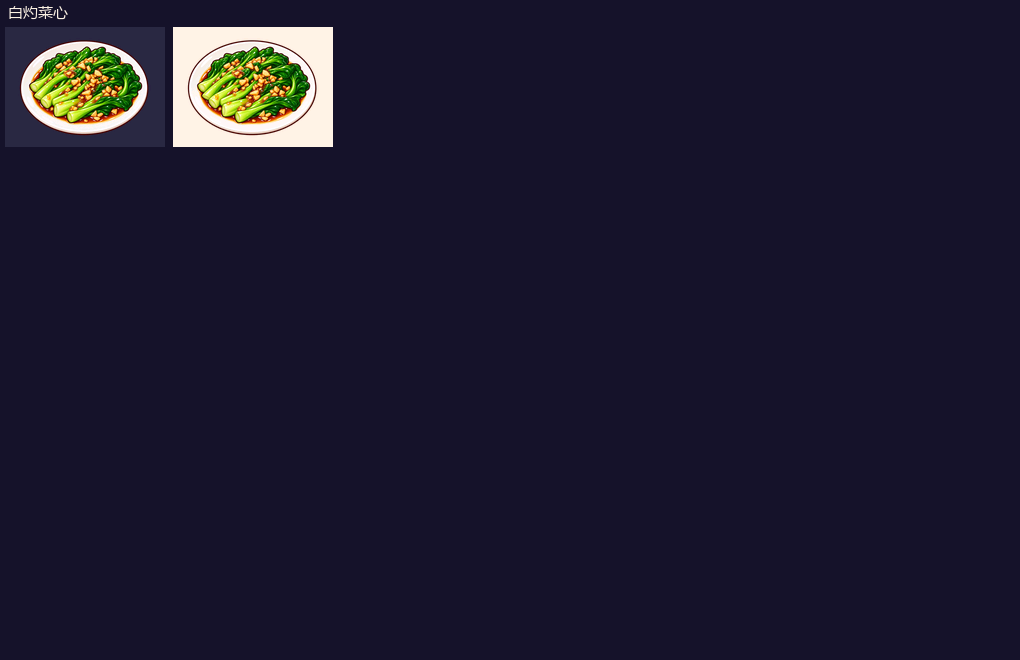
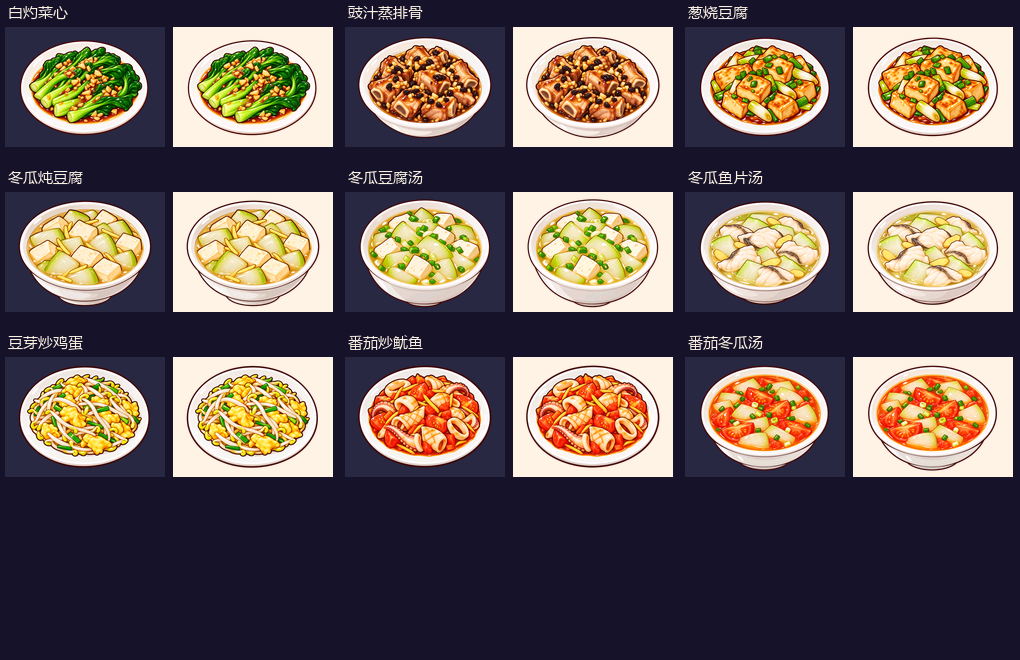
art: checkpoint additional complete dish illustrations

diff --git a/game-art/kitchen/dish-hero/batches/2026-10-29/verify_runtime.py b/game-art/kitchen/dish-hero/batches/2026-10-29/verify_runtime.py
@@ -1,0 +1,118 @@
+"""Verify an art candidate against the unchanged production C resource readers.
+
+No firmware build, serial access or device write. Requires CC and CJSON_DIR.
+The existing 17-hero fixture stays unchanged; this candidate expects every recipe
+to resolve a hero instead of expecting the old missing-image placeholder.
+"""
+import argparse
+import ctypes as ct
+import hashlib
+import importlib.util
+import json
+import os
+from pathlib import Path
+import subprocess
+import tempfile
+import unittest
+
+
+def load(name, path):
+    spec = importlib.util.spec_from_file_location(name, path)
+    module = importlib.util.module_from_spec(spec)
+    spec.loader.exec_module(module)
+    return module
+
+
+def sha(path):
+    return hashlib.sha256(path.read_bytes()).hexdigest()
+
+
+def main():
+    parser = argparse.ArgumentParser(description=__doc__)
+    parser.add_argument("--firmware-root", required=True, type=Path)
+    parser.add_argument("--assets", required=True, type=Path)
+    parser.add_argument("--out", required=True, type=Path)
+    args = parser.parse_args()
+    firmware, assets = args.firmware_root.resolve(), args.assets.resolve()
+    args.out.mkdir(parents=True, exist_ok=True)
+    packer = load("art_candidate_bundle", firmware / "tools/pack_kitchen_assets.py")
+    blob = (assets / "kitchen_bundle.bin").read_bytes()
+    assert packer.build(assets) == blob, "Bundle must rebuild byte-for-byte"
+    assert len(blob) <= 0x500000, "Exceeds actual offline resource partition"
+    unchanged = [name for name in packer.FILES if name != "kitchen_dish.bin"]
+    for name in unchanged:
+        assert (assets / name).read_bytes() == (firmware / "assets/kitchen" / name).read_bytes(), name
+    revision = subprocess.check_output(["git", "-C", str(firmware), "rev-parse", "HEAD"], text=True).strip()
+    subprocess.run(["git", "-C", str(firmware), "diff", "--exit-code", "HEAD", "--", "main/kitchen", "tests/kitchen_view_host.c", "tests/test_real_catalog_views.py", "tools/pack_kitchen_assets.py"], check=True)
+
+    class Blob(ct.Structure):
+        _fields_ = [("data", ct.c_void_p), ("size", ct.c_size_t)]
+
+    class Assets(ct.Structure):
+        _fields_ = [(name, Blob) for name in ("recipes", "fonts", "dish", "icons", "ui", "animation")]
+
+    with tempfile.TemporaryDirectory() as temp:
+        library = Path(temp) / "candidate_bundle.so"
+        subprocess.run([os.environ.get("CC", "cc"), "-std=c11", "-Wall", "-Wextra", "-Werror", "-shared", "-fPIC", "-I", str(firmware / "main/kitchen"), str(firmware / "main/kitchen/kitchen_bundle.c"), "-o", str(library)], check=True)
+        dll = ct.CDLL(str(library))
+        dll.kb_open.argtypes = [ct.c_void_p, ct.c_size_t, ct.POINTER(Assets)]
+        dll.kb_open.restype = ct.c_bool
+        callback = ct.CFUNCTYPE(None, ct.c_void_p)
+        dll.kb_open_cooperative.argtypes = [ct.c_void_p, ct.c_size_t, ct.POINTER(Assets), callback, ct.c_void_p]
+        dll.kb_open_cooperative.restype = ct.c_bool
+        buffer = ct.create_string_buffer(blob)
+        parsed = Assets()
+        calls = []
+        progress = callback(lambda context: calls.append(context))
+        assert dll.kb_open_cooperative(buffer, len(blob), ct.byref(parsed), progress, 123)
+        expected = (len(blob) - 16 + 4095) // 4096
+        for (field, _), filename in zip(Assets._fields_, packer.FILES):
+            item = getattr(parsed, field)
+            assert ct.string_at(item.data, item.size) == (assets / filename).read_bytes(), filename
+            expected += (item.size + 4095) // 4096
+        assert calls == [123] * expected
+        bad = bytearray(blob)
+        bad[-1] ^= 1
+        corrupt = ct.create_string_buffer(bytes(bad))
+        assert not dll.kb_open(corrupt, len(bad), ct.byref(Assets()))
+        for length in (0, 15, 111, len(blob) - 1):
+            assert not dll.kb_open(buffer, length, ct.byref(Assets()))
+        if os.name == "nt":
+            from _ctypes import FreeLibrary
+            FreeLibrary(dll._handle)
+
+    views = load("art_candidate_views", firmware / "tests/test_real_catalog_views.py")
+    views.ASSETS = assets
+    output = args.out
+    candidate_count = []
+
+    class CompleteHeroCandidate(views.RealCatalogViews):
+        def test_hero_and_placeholder_compatibility(self):
+            # Strengthen the old fixture contract: all real recipes now have art.
+            for index, ident in enumerate(self.ids):
+                self.assertEqual(self.dll.view_has_hero(index), 1, ident)
+                self.assertEqual(self.dll.view_compare_hero_required(index, 1), 1, ident)
+            candidate_count[:] = [len(self.ids)]
+
+        def test_representative_candidate_screens(self):
+            from PIL import Image
+            selected = ["fanqie-chaodan", "qingzheng-luyu", "jidan-chaofan", "qingjiao-chao-youyu", "baicai-doufu", "baiqie-ji"]
+            gallery = Image.new("RGB", (720, 640))
+            pixels = (ct.c_uint16 * (240 * 320))()
+            for position, ident in enumerate(selected):
+                self.assertEqual(self.dll.view_page(4, self.ids.index(ident)), 1)
+                self.assertEqual(self.dll.view_draw(pixels, 0, 320), 1)
+                frame = Image.new("RGB", (240, 320))
+                frame.putdata([(((v >> 11) * 255 + 15) // 31, (((v >> 5) & 63) * 255 + 31) // 63, ((v & 31) * 255 + 15) // 31) for v in pixels])
+                gallery.paste(frame, ((position % 3) * 240, (position // 3) * 320))
+            gallery.save(output / "host-rendered-candidate.png")
+
+    result = unittest.TextTestRunner(verbosity=2).run(unittest.defaultTestLoader.loadTestsFromTestCase(CompleteHeroCandidate))
+    report = {"kind": "host-only art resource candidate; NOT FLASHED", "firmware_source_commit": revision, "bundle_sha256": hashlib.sha256(blob).hexdigest(), "bundle_bytes": len(blob), "partition_bytes": 0x500000, "partition_remaining_bytes": 0x500000 - len(blob), "deterministic_bundle": True, "production_c_bundle_reader": "PASS", "cooperative_crc_callbacks": expected, "corrupt_and_truncated_bundle_rejection": "PASS", "unchanged_payloads": unchanged, "hero_recipes_verified_in_production_c": candidate_count[0] if candidate_count else 0, "render_tests_run": result.testsRun, "render_tests_passed": result.wasSuccessful(), "host_gallery_sha256": sha(output / "host-rendered-candidate.png"), "files": {name: {"bytes": (assets / name).stat().st_size, "sha256": sha(assets / name)} for name in (*packer.FILES, "kitchen_bundle.bin")}, "unverified": ["new resources on physical device", "per-dish human visual and cooking acceptance", "long-term use"]}
+    (output / "runtime-validation.json").write_text(json.dumps(report, ensure_ascii=False, indent=2) + "\n", encoding="utf-8")
+    if not result.wasSuccessful():
+        raise SystemExit(1)
+
+
+if __name__ == "__main__":
+    main()
